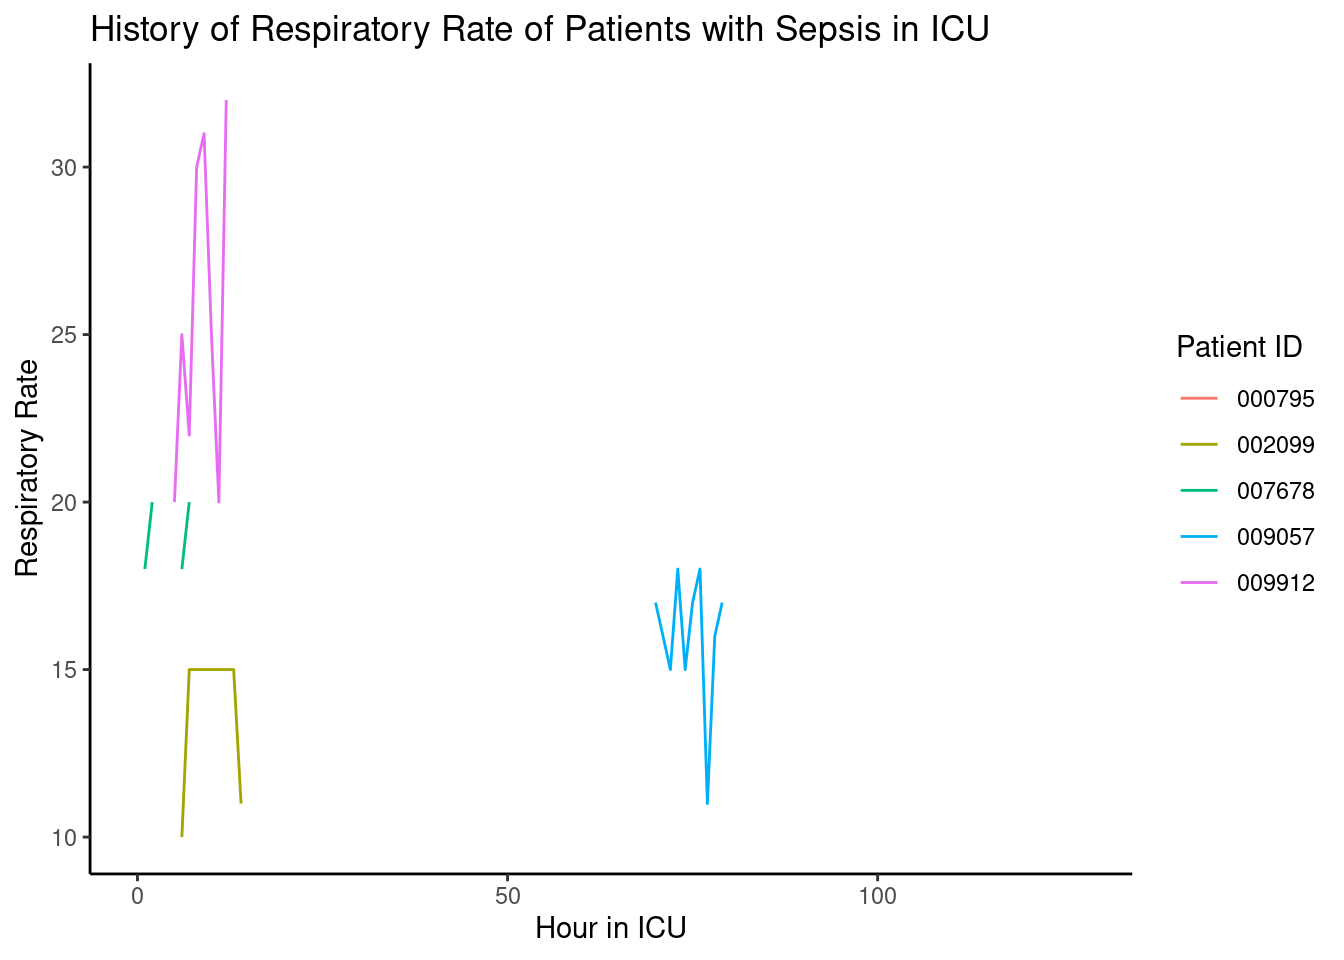
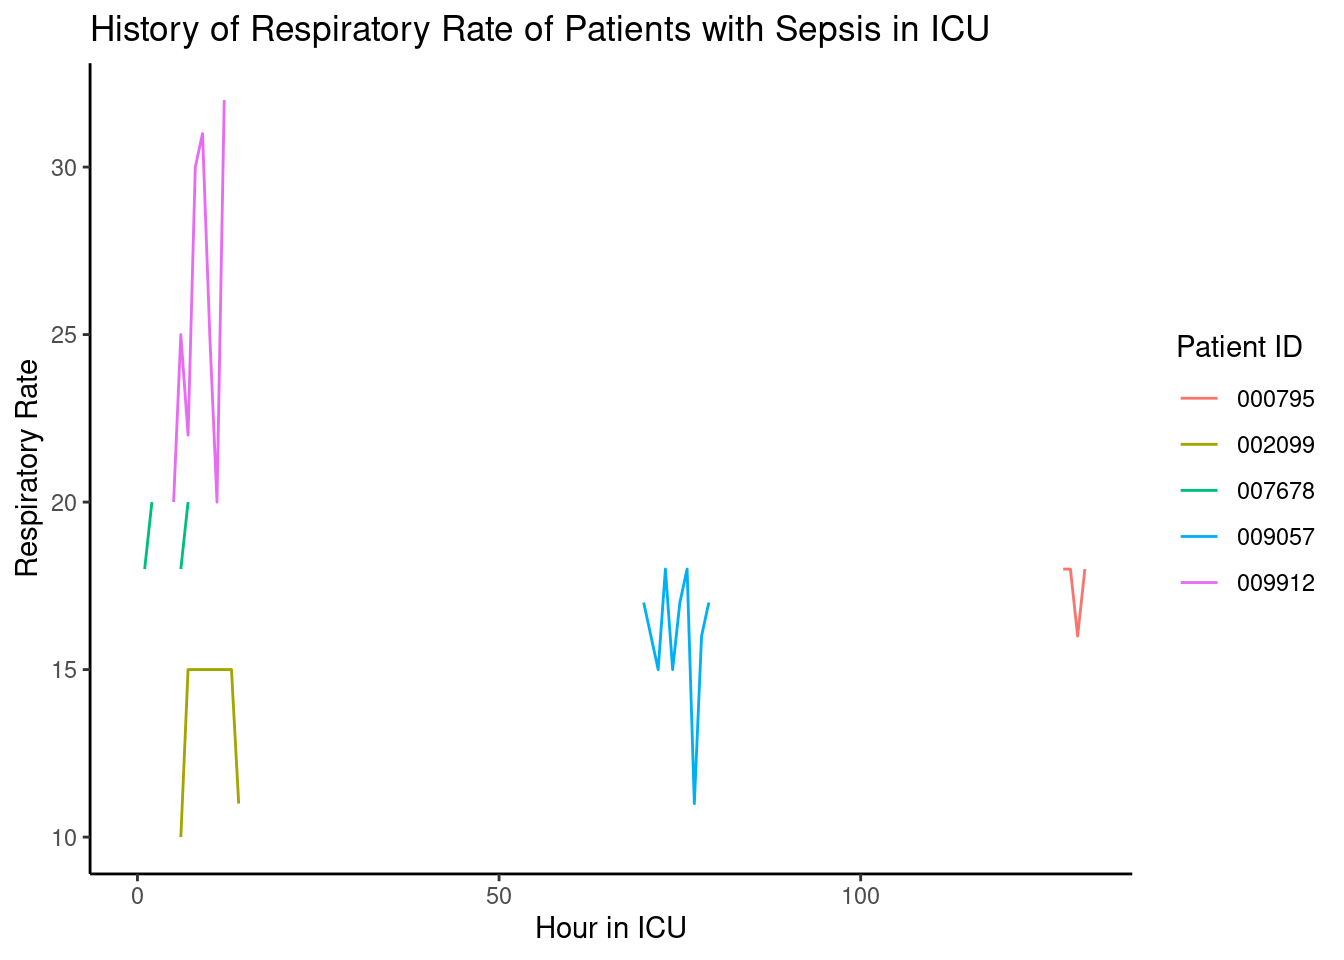
Updated report

diff --git a/HW7.html b/HW7.html
@@ -72,7 +72,7 @@ ul.task-list li input[type="checkbox"] {
 
 <div class="cell">
 <div class="cell-output cell-output-stdout">
-<pre><code>This report was updated at 2023-04-11 22:16:55 CDT</code></pre>
+<pre><code>This report was updated at 2023-04-11 23:18:55 CDT</code></pre>
 </div>
 </div>
 <div class="cell">
@@ -91,7 +91,7 @@ ul.task-list li input[type="checkbox"] {
 <tbody>
   <tr>
    <td style="text-align:left;"> 000795 </td>
-   <td style="text-align:right;"> 50 </td>
+   <td style="text-align:right;"> 66 </td>
    <td style="text-align:right;"> NA </td>
    <td style="text-align:right;"> 18 </td>
   </tr>
@@ -175,9 +175,9 @@ ul.task-list li input[type="checkbox"] {
   </tr>
   <tr>
    <td style="text-align:left;font-weight: bold;color: black !important;background-color: lightgrey !important;border-right:1px solid;"> 000795 </td>
-   <td style="text-align:right;"> -13 </td>
-   <td style="text-align:right;"> NA </td>
    <td style="text-align:right;"> 0 </td>
+   <td style="text-align:right;"> NA </td>
+   <td style="text-align:right;"> 2 </td>
   </tr>
   <tr>
    <td style="text-align:left;font-weight: bold;color: black !important;background-color: lightgrey !important;border-right:1px solid;"> 001135 </td>
